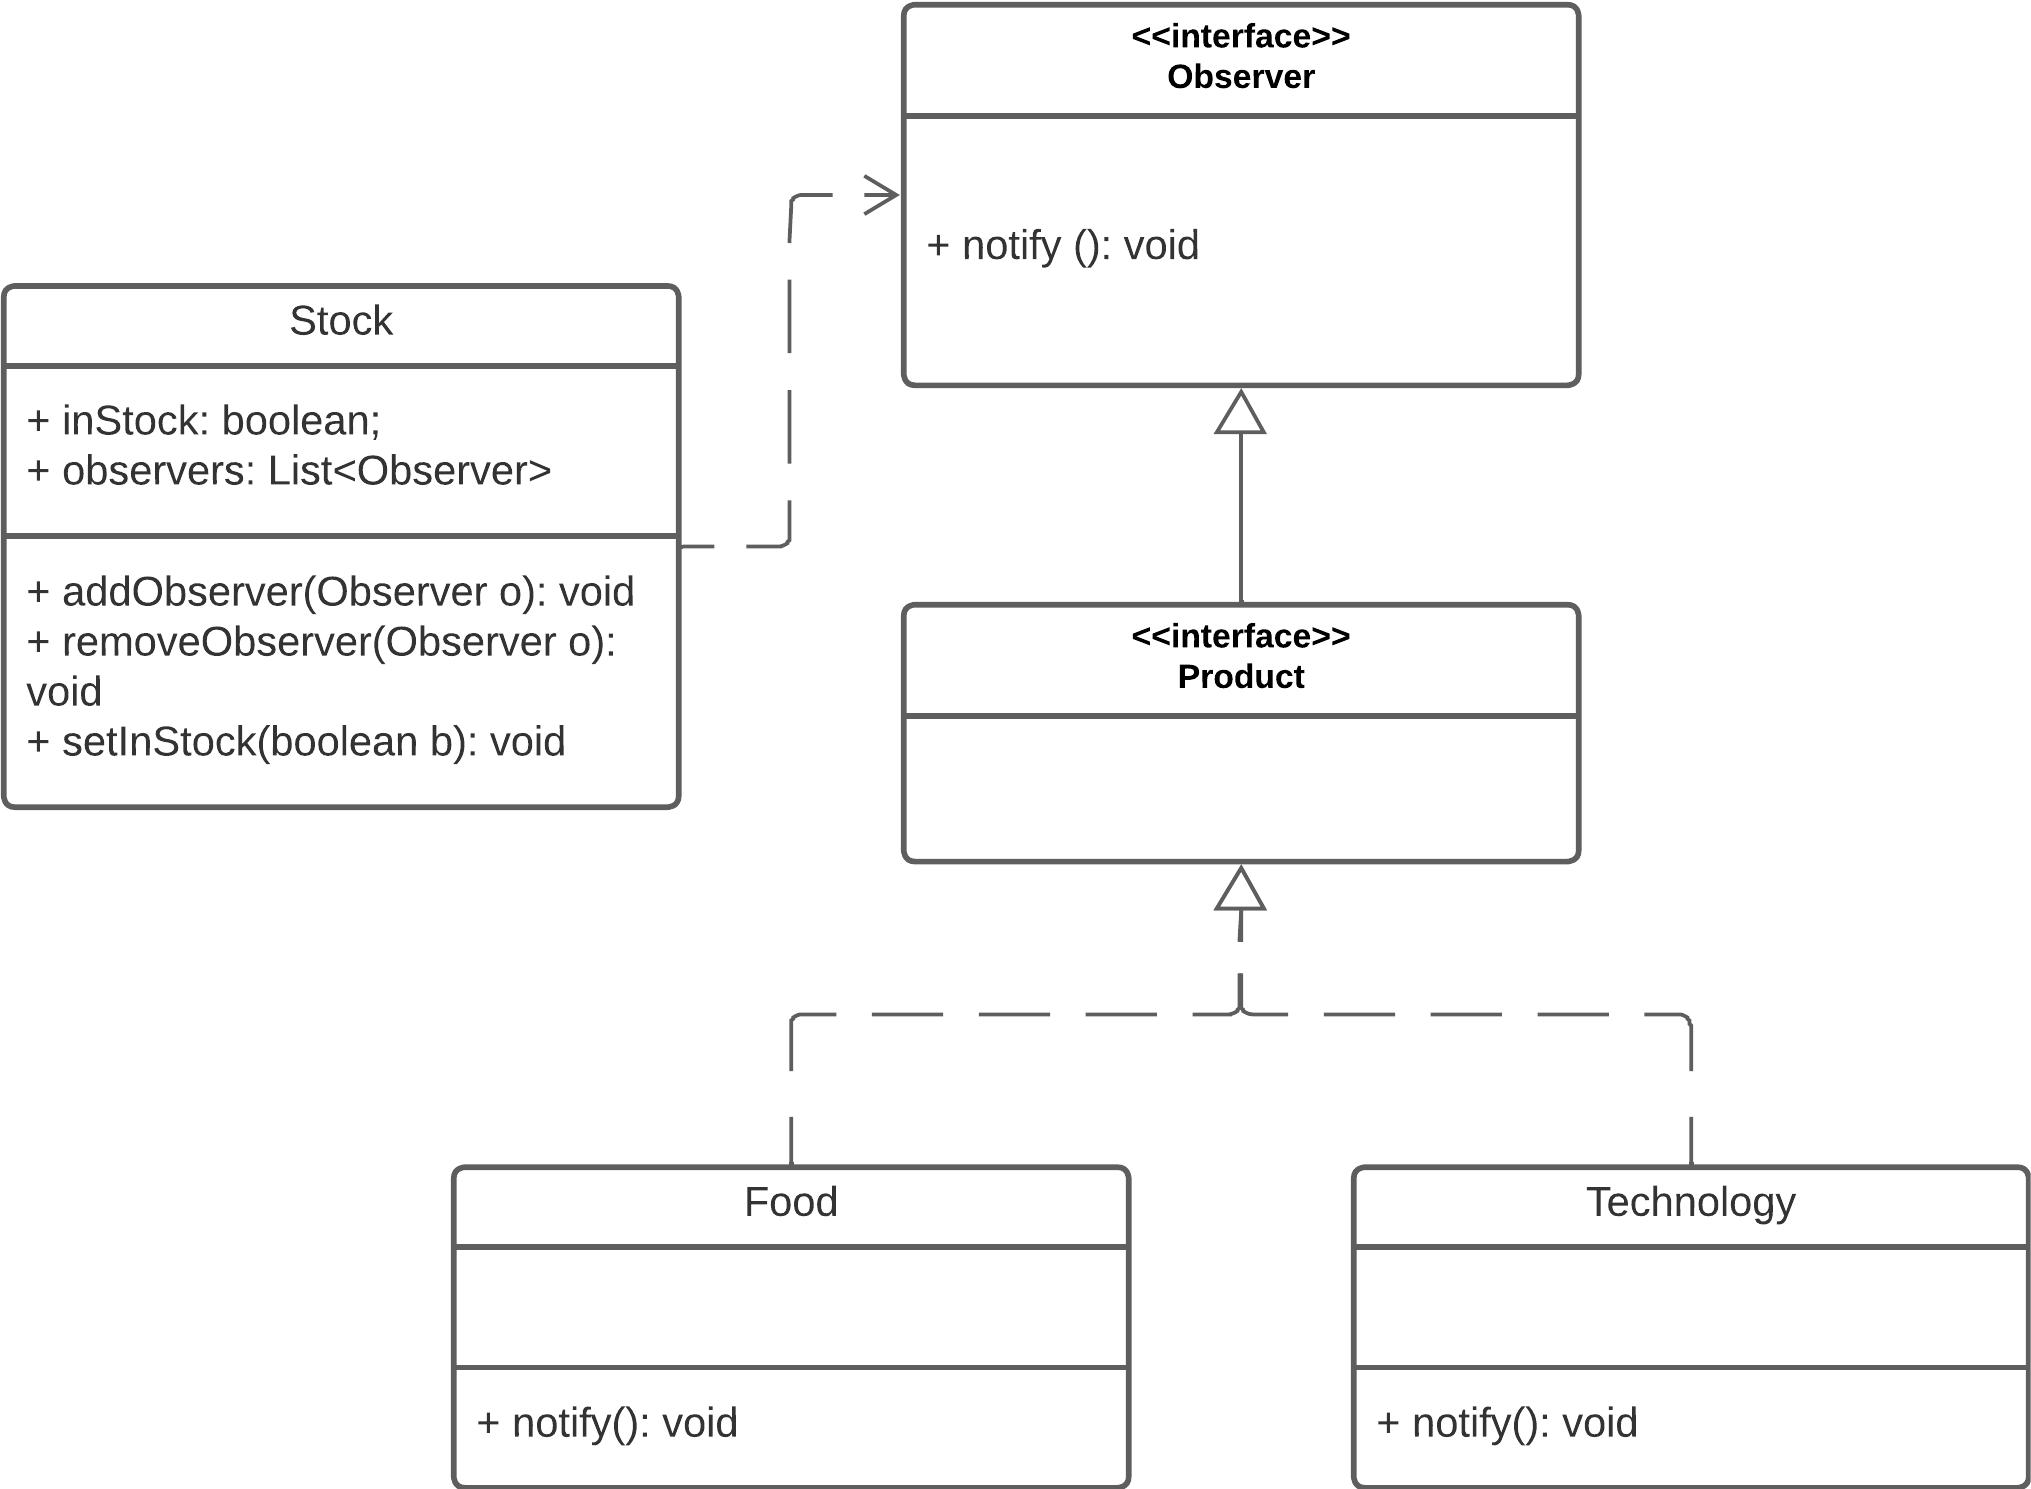
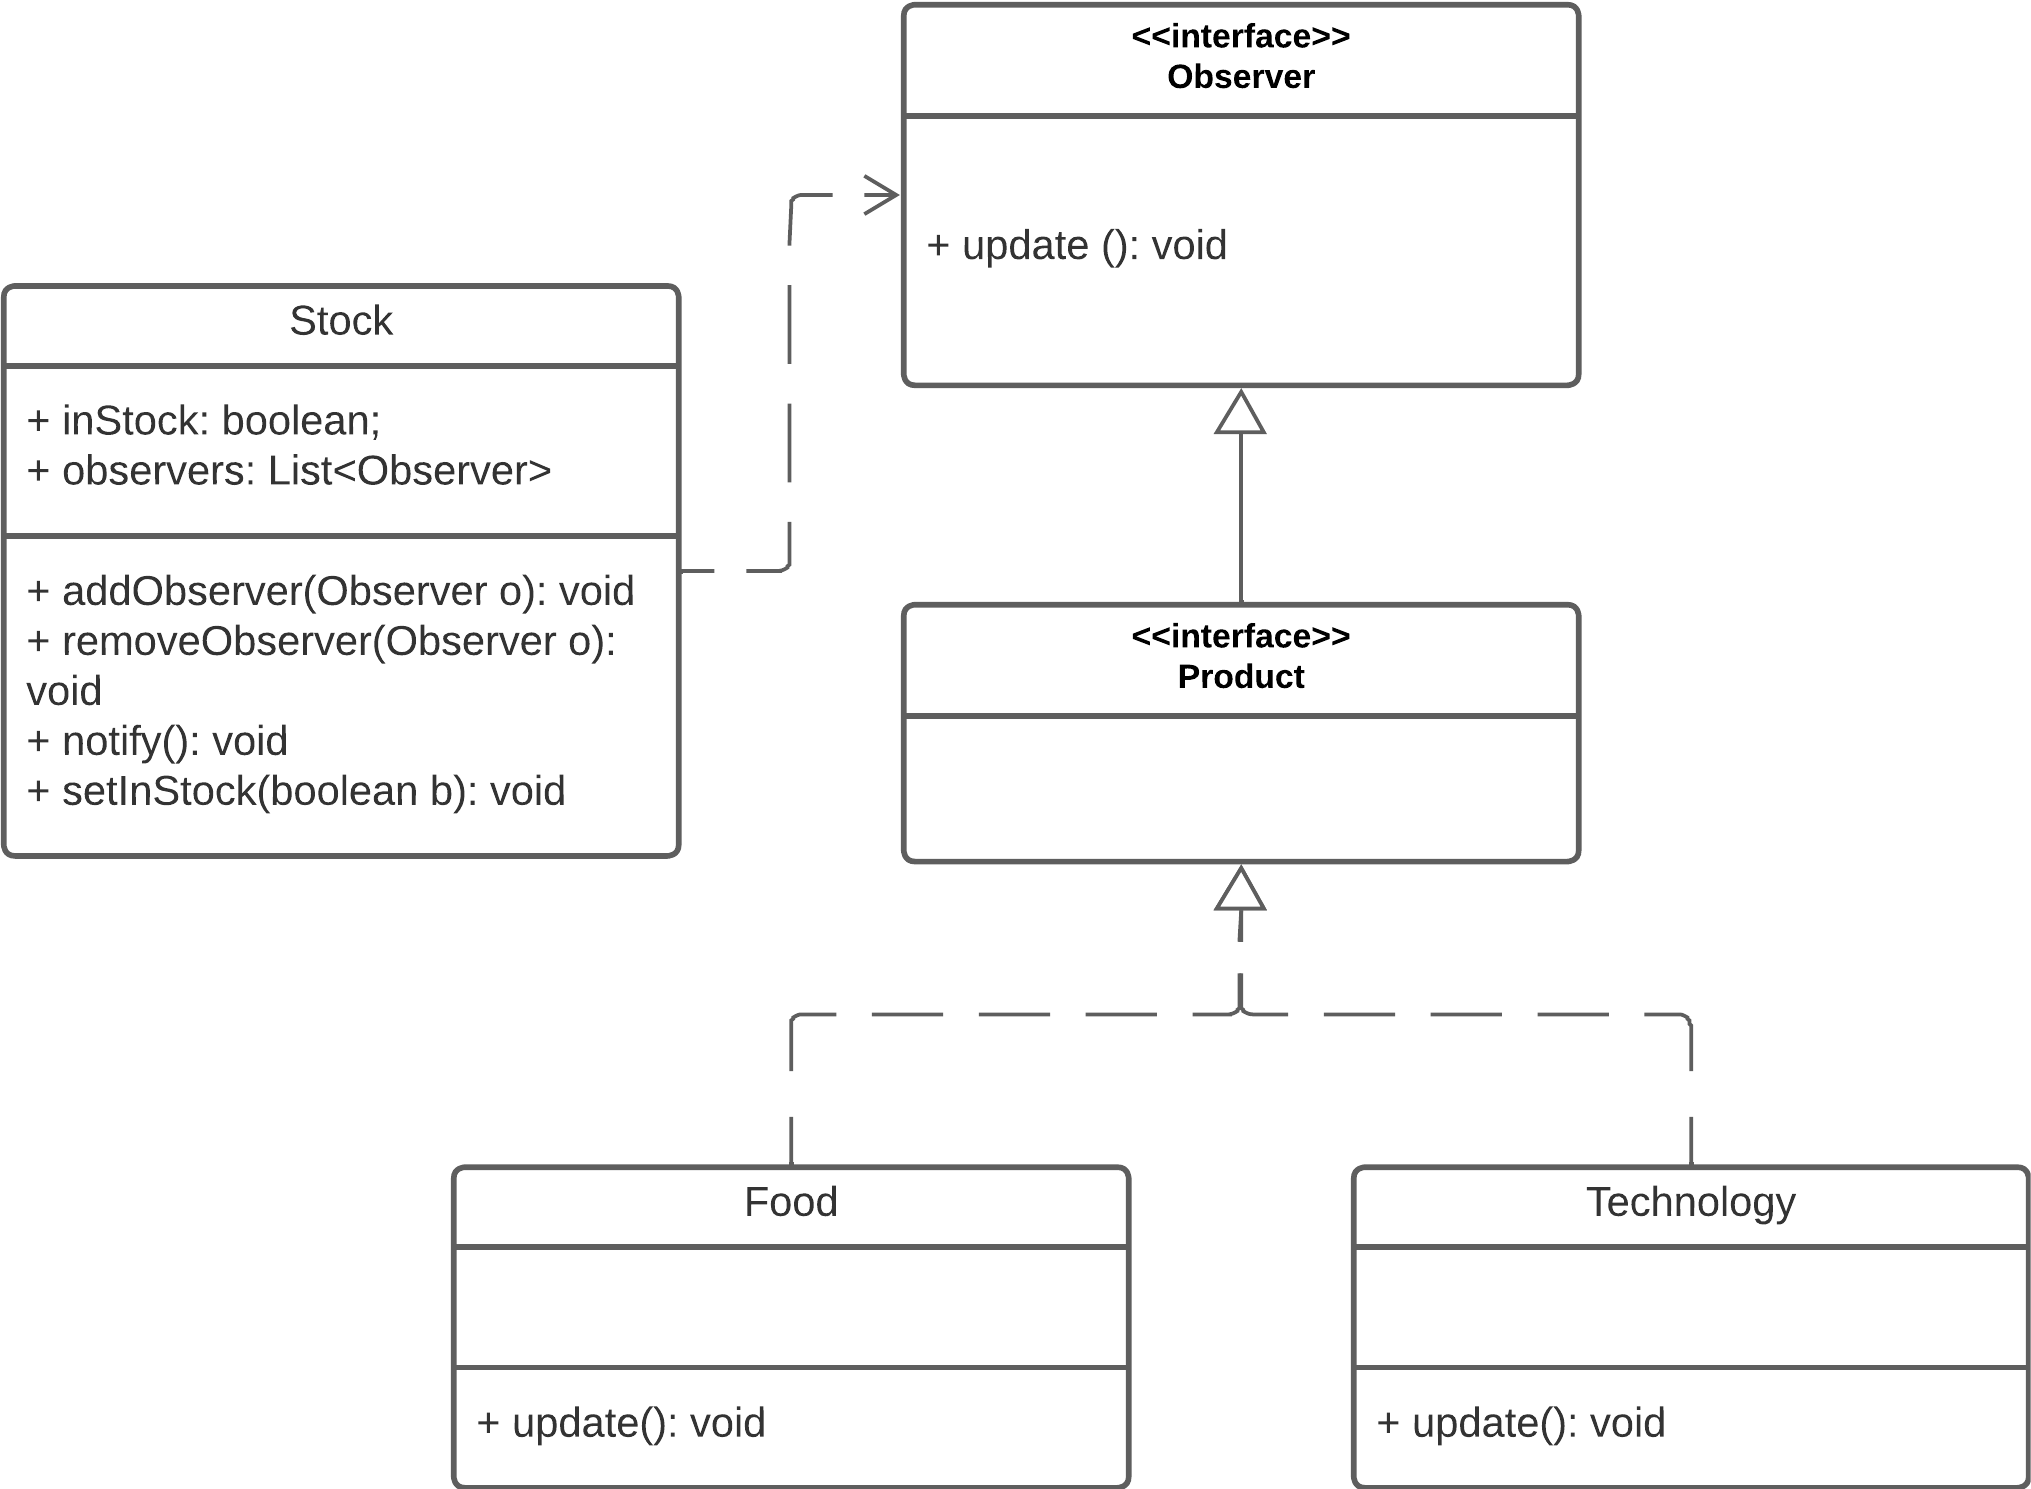
ENGIII: Observer Design Pattern

diff --git a/Engenharia III/Observer/src/classes/Stock.java b/Engenharia III/Observer/src/classes/Stock.java
@@ -21,13 +21,17 @@ public class Stock {
         observers.remove(o);
     }
 
+    public void _notify() {
+        for (IObserver o : observers) {
+            o.update();
+        }
+    }
+
     public void setInStock(boolean b) {
         inStock = b;
 
         if (!inStock) return;
 
-        for (IObserver o : observers) {
-            o._notify();
-        }
+        this._notify();
     }
 }

diff --git a/Engenharia III/Observer/src/classes/Technology.java b/Engenharia III/Observer/src/classes/Technology.java
@@ -4,7 +4,7 @@ import interfaces.IProduto;
 
 public class Technology implements IProduto {
     @Override
-    public void _notify() {
+    public void update() {
         System.out.println("Technology notification received!");
     }
 }

diff --git a/Engenharia III/Observer/src/classes/Food.java b/Engenharia III/Observer/src/classes/Food.java
@@ -4,7 +4,7 @@ import interfaces.IProduto;
 
 public class Food implements IProduto {
     @Override
-    public void _notify() {
+    public void update() {
         System.out.println("Food notification received!");
     }
 }

diff --git a/Engenharia III/Observer/src/interfaces/IObserver.java b/Engenharia III/Observer/src/interfaces/IObserver.java
@@ -1,5 +1,5 @@
 package interfaces;
 
 public interface IObserver {
-    public void _notify();
+    public void update();
 }

diff --git a/Engenharia III/Observer/README.md b/Engenharia III/Observer/README.md
@@ -33,36 +33,51 @@ public class Main {
 Stock.java (src/classes/Stock.java)
 
 ```java
+package classes;
+
+import java.util.ArrayList;
+import java.util.List;
+import interfaces.IObserver;
+
 public class Stock {
     private boolean inStock;
     private List<IObserver> observers;
+
     public Stock() {
         inStock = false;
         observers = new ArrayList<IObserver>();
     }
+
     public void addObserver(IObserver o) {
         observers.add(o);
     }
+
     public void removeObserver(IObserver o) {
         observers.remove(o);
     }
-    public void setInStock(boolean b) {
-        inStock = b;
- 
-        if (!inStock) return;
- 
+
+    public void _notify() {
         for (IObserver o : observers) {
-            o._notify();
+            o.update();
         }
     }
+
+    public void setInStock(boolean b) {
+        inStock = b;
+
+        if (!inStock) return;
+
+        this._notify();
+    }
 }
+
 ```
 
 IObserver.java (src/interfaces/IObserver.java)
 
 ```java
 public interface IObserver {
-    void _notify();
+    void update();
 }
 ```
 
@@ -83,7 +98,7 @@ import interfaces.IProduto;
 
 public class Food implements IProduto {
     @Override
-    public void _notify() {
+    public void update() {
         System.out.println("Food notification received!");
     }
 }
@@ -98,7 +113,7 @@ import interfaces.IProduto;
 
 public class Technology implements IProduto {
     @Override
-    public void _notify() {
+    public void update() {
         System.out.println("Technology notification received!");
     }
 }
